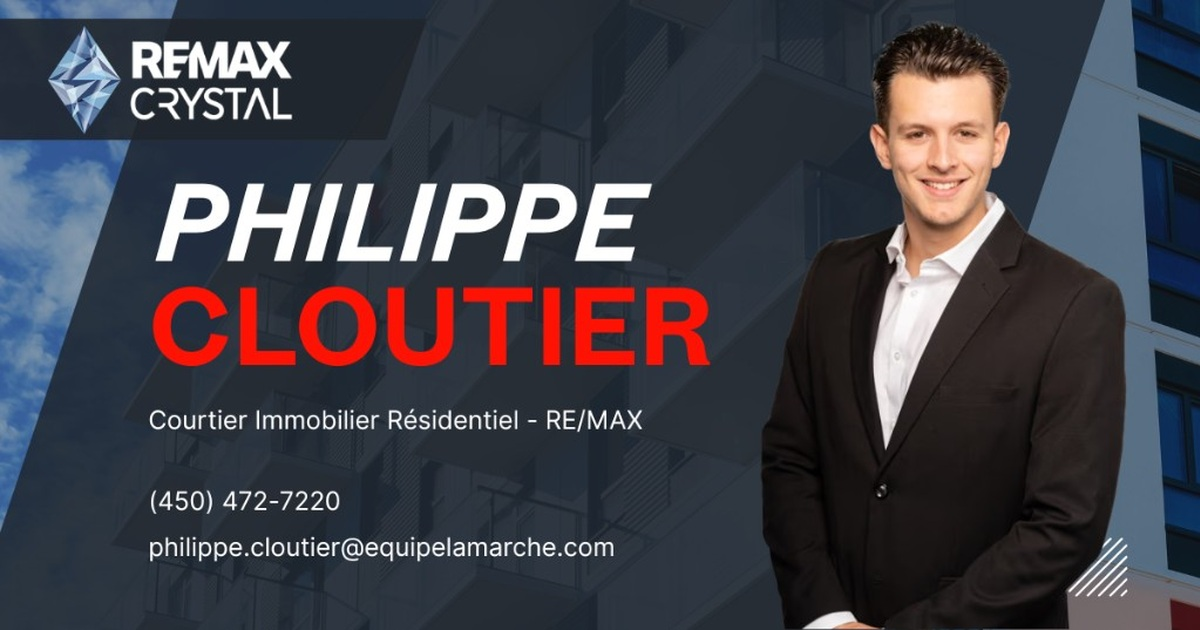
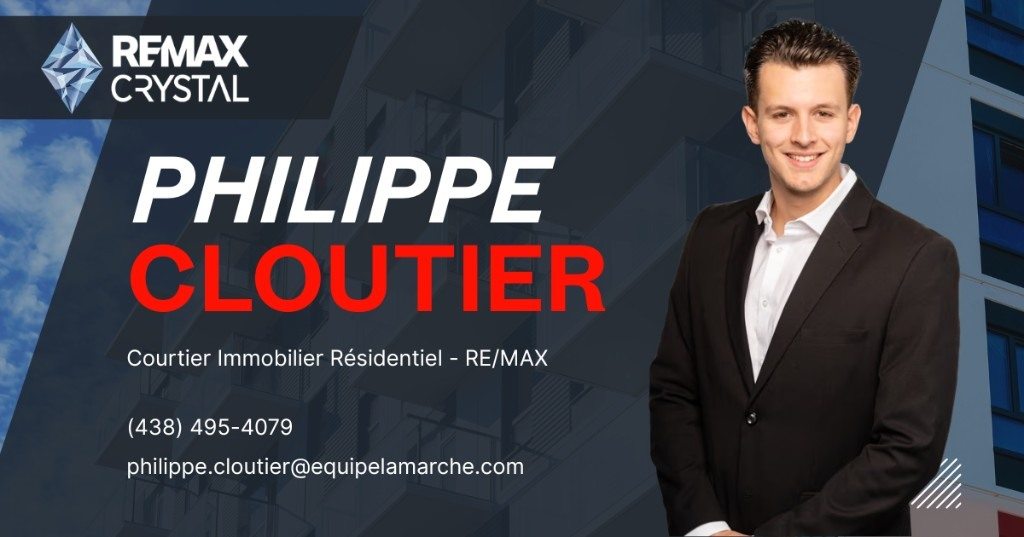
push

diff --git a/index.html b/index.html
@@ -18,8 +18,8 @@
     <meta property="og:image" content="https://philippecloutier.net/og-image.jpg">
     <meta property="og:image:secure_url" content="https://philippecloutier.net/og-image.jpg">
     <meta property="og:image:type" content="image/jpeg">
-    <meta property="og:image:width" content="1200">
-    <meta property="og:image:height" content="630">
+    <meta property="og:image:width" content="1024">
+    <meta property="og:image:height" content="537">
     <meta property="og:image:alt" content="Philippe Cloutier, courtier immobilier RE/MAX CRYSTAL à Saint-Eustache">
     <meta name="twitter:card" content="summary_large_image">
     <meta name="twitter:title" content="Philippe Cloutier | Courtier immobilier, Saint-Eustache">
@@ -303,7 +303,7 @@
                 <a href="#contact" class="hover-target nav-link">Contact</a>
             </div>
             <div class="flex items-center gap-4 z-10">
-                <a href="tel:450-472-7220" id="nav-phone" class="hidden md:block hover-target text-white mix-blend-difference font-serif italic tracking-wider text-base lg:text-lg transition-colors duration-500">450.472.7220</a>
+                <a href="tel:438-495-4079" id="nav-phone" class="hidden md:block hover-target text-white mix-blend-difference font-serif italic tracking-wider text-base lg:text-lg transition-colors duration-500">(438) 495-4079</a>
                 <button id="menu-btn" class="lg:hidden hover-target text-white mix-blend-difference w-10 h-10 flex flex-col justify-center items-center gap-1.5" aria-label="Menu">
                     <span class="bar-1 w-6"></span>
                     <span class="bar-2 w-6"></span>
@@ -323,7 +323,7 @@
             <a href="#temoignages" class="mobile-nav-link text-2xl font-serif hover-target">Témoignages</a>
             <a href="#faq" class="mobile-nav-link text-2xl font-serif hover-target">FAQ</a>
             <a href="#contact" class="mobile-nav-link text-2xl font-serif hover-target">Contact</a>
-            <a href="tel:450-472-7220" class="mt-8 text-brand-red font-serif italic text-xl hover-target">450.472.7220</a>
+            <a href="tel:438-495-4079" class="mt-8 text-brand-red font-serif italic text-xl hover-target">(438) 495-4079</a>
         </nav>
     </div>
 
@@ -585,8 +585,7 @@
                     <div><p class="text-white/40 text-xs tracking-[0.2em] uppercase mb-2">Courtier</p><p class="text-xl font-light">Philippe Cloutier</p><p class="text-sm text-white/50 mt-1">RE/MAX CRYSTAL · Équipe Lamarche Troini</p></div>
                     <div>
                         <p class="text-white/40 text-xs tracking-[0.2em] uppercase mb-2">Coordonnées</p>
-                        <a href="tel:450-472-7220" class="block text-xl font-light hover:text-brand-blue transition-colors hover-target mb-2">Bureau : 450 472-7220</a>
-                        <a href="tel:438-495-4079" class="block text-xl font-light hover:text-brand-blue transition-colors hover-target mb-2">Cellulaire : 438 495-4079</a>
+                        <a href="tel:438-495-4079" class="block text-xl font-light hover:text-brand-blue transition-colors hover-target mb-2">(438) 495-4079</a>
                         <a href="mailto:philippe.cloutier@equipelamarche.com" class="block text-lg font-light hover:text-brand-red transition-colors hover-target">philippe.cloutier@equipelamarche.com</a>
                     </div>
                     <div><p class="text-white/40 text-xs tracking-[0.2em] uppercase mb-2">Territoire</p><p class="text-xl font-light">Saint-Eustache</p><p class="text-sm text-white/50 mt-1">Laurentides · Lanaudière · Laval</p></div>
@@ -871,7 +870,7 @@
                 }
             } catch {
                 formStatus.className = 'text-sm py-3 text-brand-red';
-                formStatus.textContent = 'Une erreur est survenue. Veuillez réessayer ou nous appeler au 450 472-7220.';
+                formStatus.textContent = 'Une erreur est survenue. Veuillez réessayer ou nous appeler au (438) 495-4079.';
                 formSubmit.disabled = false;
                 formSubmit.innerHTML = 'Envoyer le message <i class="fa-solid fa-paper-plane icon-inline"></i>';
             }

diff --git a/politique-confidentialite.html b/politique-confidentialite.html
@@ -32,7 +32,7 @@
             <section>
                 <h2 class="text-xl font-serif text-brand-dark mb-4">1. Responsable de la protection des renseignements personnels</h2>
                 <p>Le responsable de la protection des renseignements personnels est :</p>
-                <p class="mt-3 text-brand-dark font-medium">Philippe Cloutier<br>Courtier immobilier résidentiel, RE/MAX CRYSTAL<br>Saint-Eustache, Québec<br><a href="mailto:philippe.cloutier@equipelamarche.com" class="text-brand-blue hover:underline">philippe.cloutier@equipelamarche.com</a><br><a href="tel:450-472-7220" class="text-brand-blue hover:underline">450 472-7220</a></p>
+                <p class="mt-3 text-brand-dark font-medium">Philippe Cloutier<br>Courtier immobilier résidentiel, RE/MAX CRYSTAL<br>Saint-Eustache, Québec<br><a href="mailto:philippe.cloutier@equipelamarche.com" class="text-brand-blue hover:underline">philippe.cloutier@equipelamarche.com</a><br><a href="tel:438-495-4079" class="text-brand-blue hover:underline">(438) 495-4079</a></p>
             </section>
 
             <section>

diff --git a/merci.html b/merci.html
@@ -35,7 +35,7 @@
             <p class="text-brand-gray font-light text-lg leading-relaxed mb-4 fade-up-delay">
                 Votre demande a bien été reçue. Philippe Cloutier vous contactera dans les plus brefs délais pour discuter de votre projet immobilier.
             </p>
-            <p class="text-sm text-brand-gray/70 mb-12 fade-up-delay">En attendant, n'hésitez pas à nous joindre directement au <a href="tel:450-472-7220" class="text-brand-blue hover:underline">450 472-7220</a>.</p>
+            <p class="text-sm text-brand-gray/70 mb-12 fade-up-delay">En attendant, n'hésitez pas à nous joindre directement au <a href="tel:438-495-4079" class="text-brand-blue hover:underline">(438) 495-4079</a>.</p>
             <a href="./index.html" class="inline-flex items-center gap-3 text-sm uppercase tracking-[0.15em] text-brand-blue font-medium border-b border-brand-blue/30 pb-2 hover:border-brand-blue transition-colors fade-up-delay">
                 Retour à l'accueil <i class="fa-solid fa-arrow-left"></i>
             </a>
